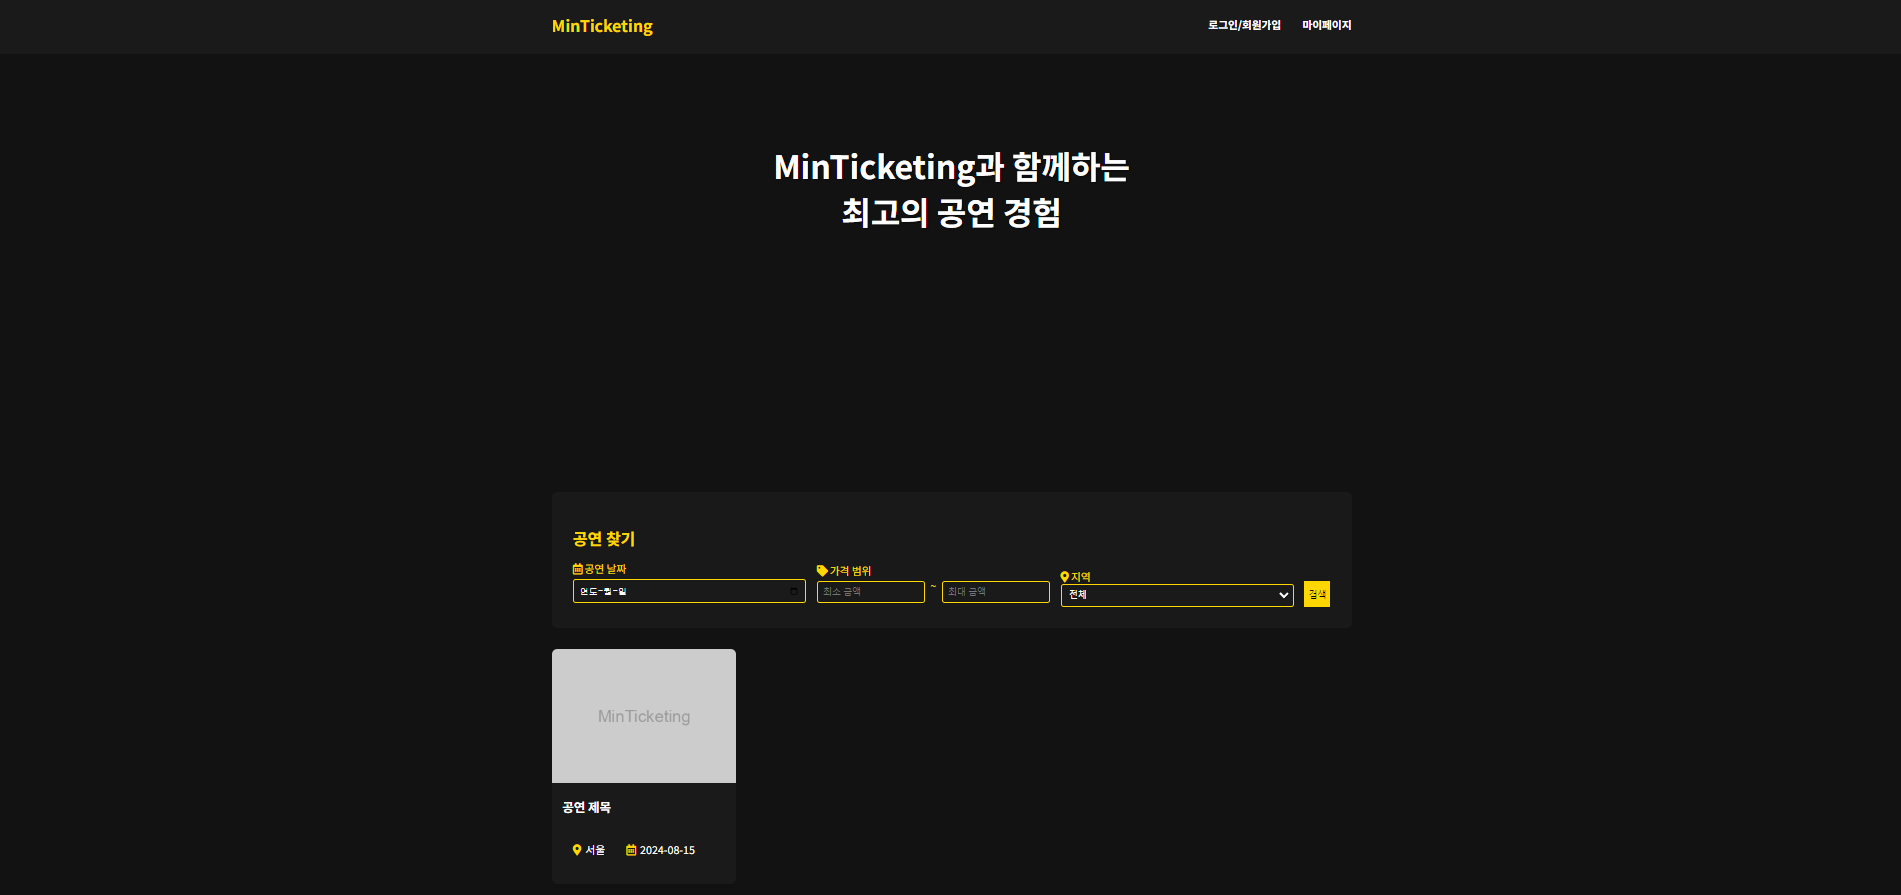
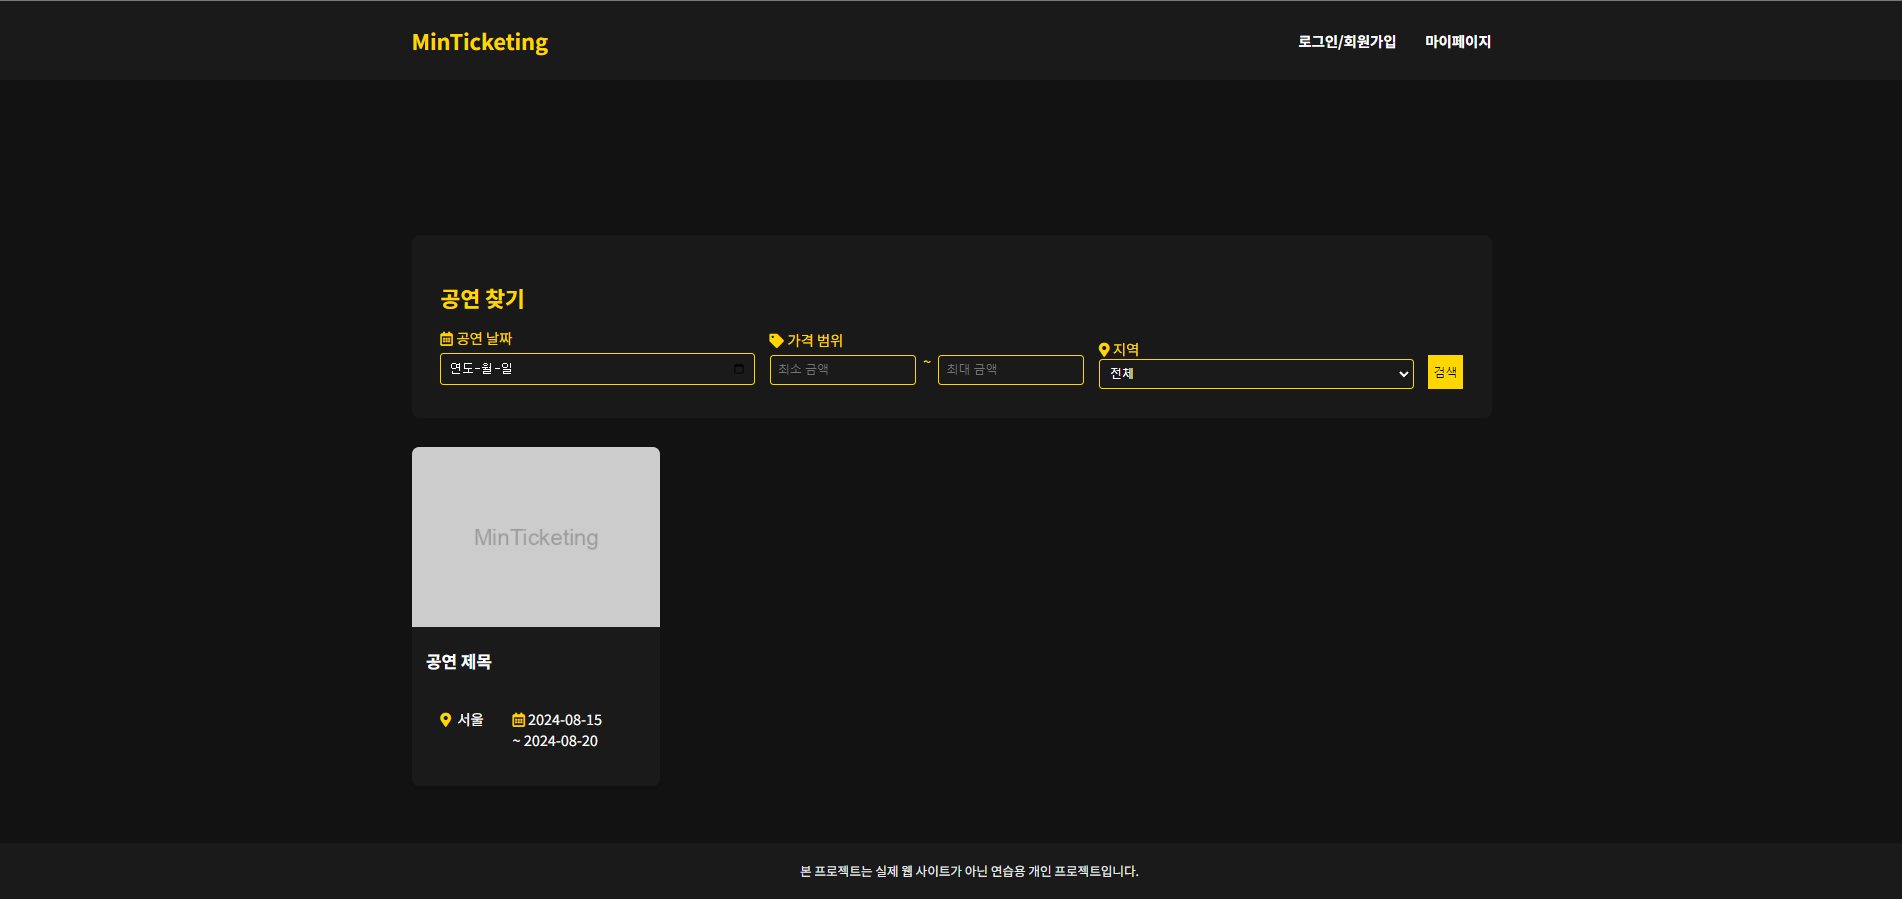
docs: README에 작성할 image 추가

diff --git a/src/pages/HomePage/components/PerformCard.js b/src/pages/HomePage/components/PerformCard.js
@@ -8,7 +8,10 @@ function PerformCard() {
                 <h3>공연 제목</h3>
                 <div class="performance-info">
                     <p><i class="fas fa-map-marker-alt"></i> 서울</p>
-                    <p><i class="far fa-calendar-alt"></i> 2024-08-15</p>
+                    <p><i class="far fa-calendar-alt"></i>
+                        <span>2024-08-15</span><br />
+                        <span>~ 2024-08-20</span>
+                    </p>
                 </div>
             </div>
         </a>
